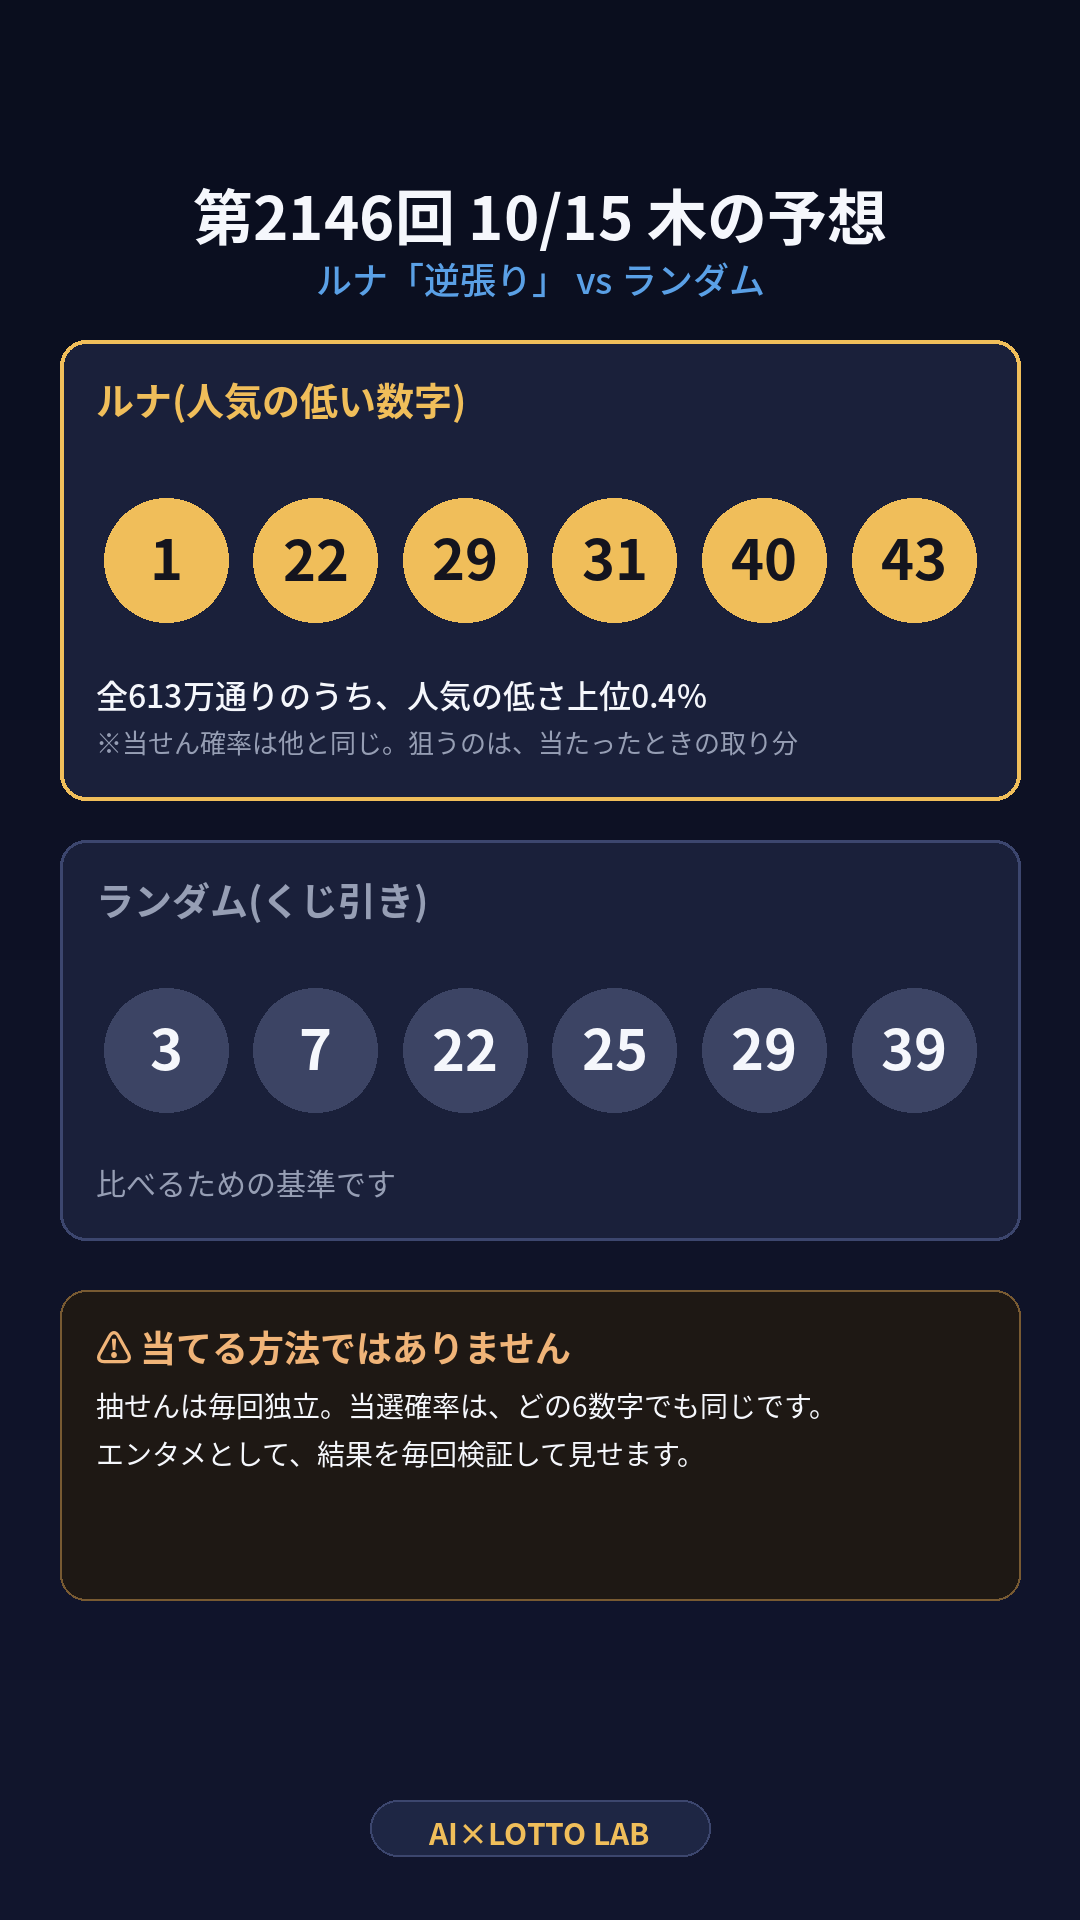
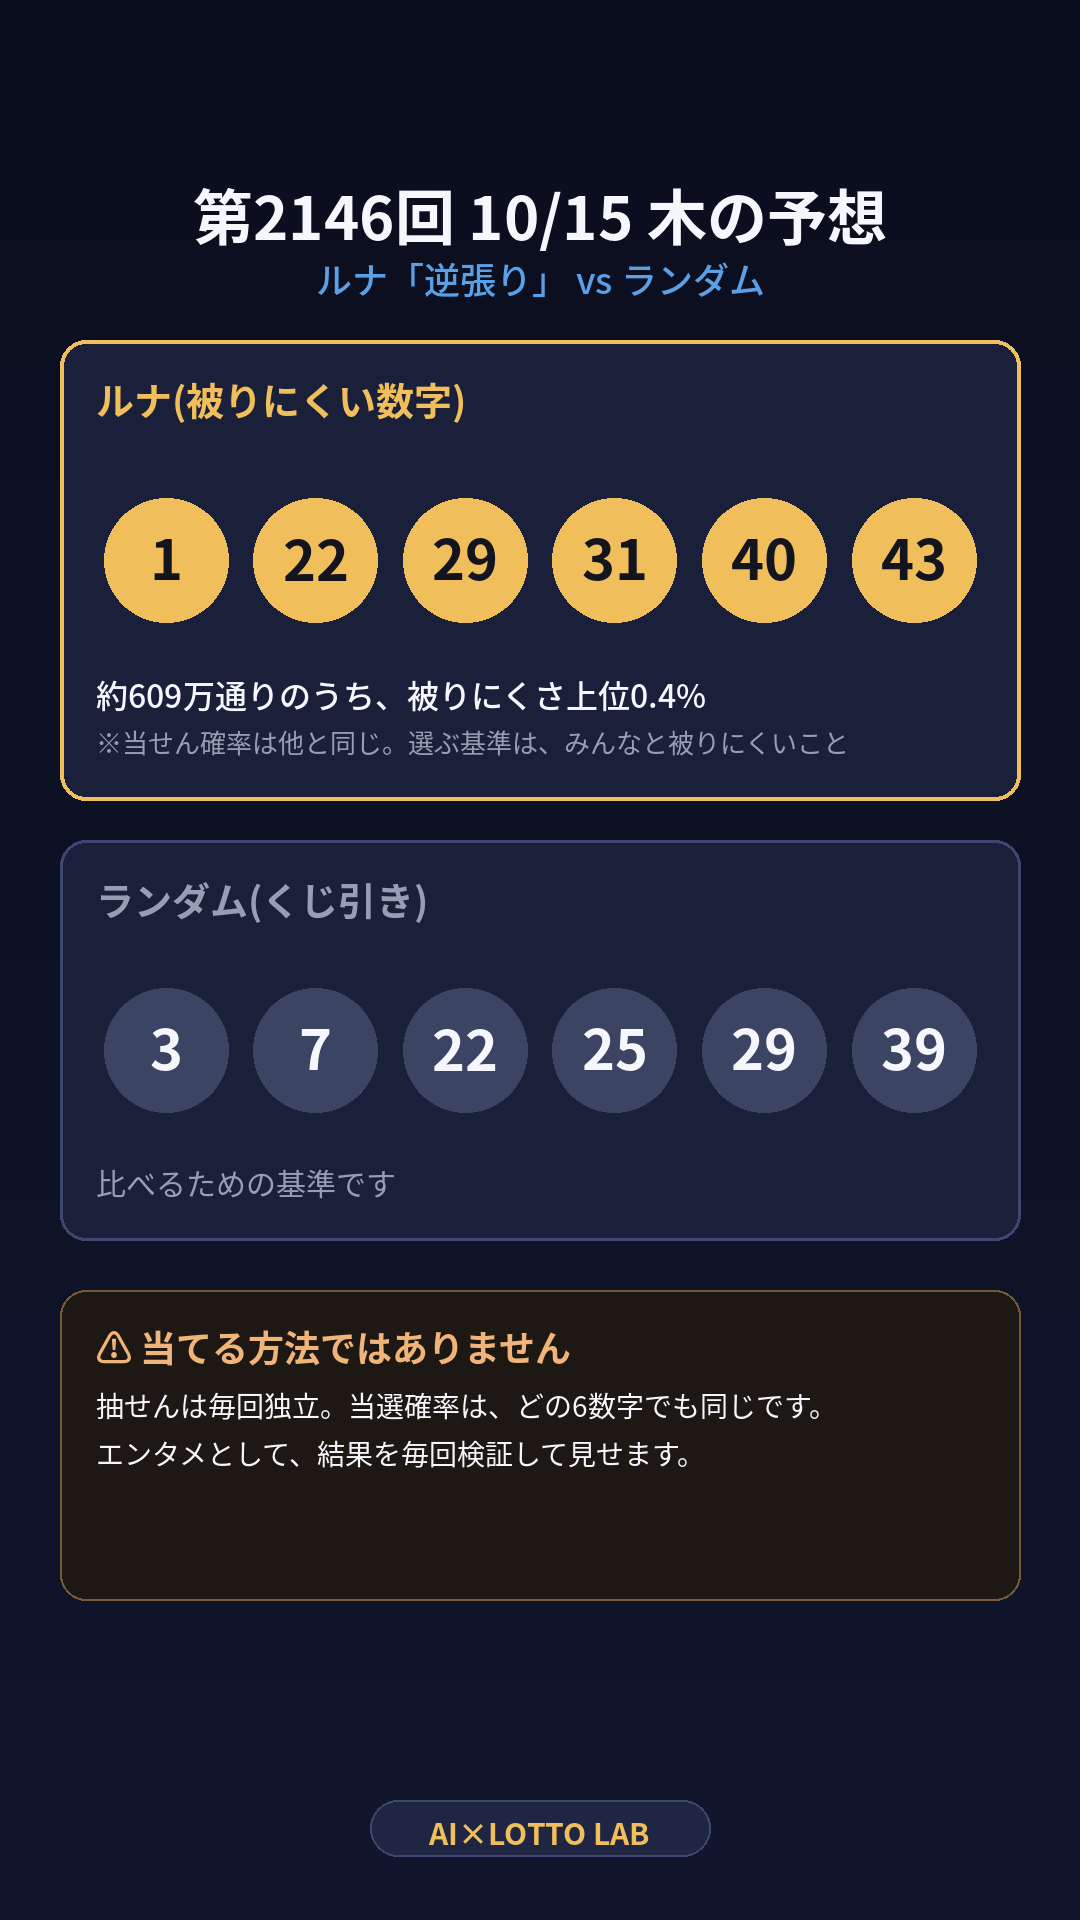
explain cards (flow, evidence), remove payout wording

diff --git a/scripts/make_explain_cards.py b/scripts/make_explain_cards.py
@@ -1,0 +1,55 @@
+"""理論を図で見せるカード2枚。python3 scripts/make_explain_cards.py <次回の回号>
+ cards/flow_<N>.png    : ルナ式ロジックの流れ(4ステップ)
+ cards/evidence_<N>.png: 人気度の推定が当たっている証拠(検証データの散布図)"""
+import sys, json, numpy as np
+import matplotlib; matplotlib.use("Agg")
+import matplotlib.pyplot as plt
+from matplotlib import font_manager as fm
+from PIL import Image, ImageDraw, ImageFont
+N = int(sys.argv[1]); p = json.load(open(f"data/picks/{N}.json")); sc = json.load(open("data/oos_scatter.json"))
+FD = "/usr/share/fonts/opentype/noto/NotoSansCJK-{}.ttc"; F = lambda w, s: ImageFont.truetype(FD.format(w), s)
+W, H = 1080, 1920; BG = (10, 14, 30); GOLD = (240, 190, 90); BLUE = (90, 160, 230); WHITE = (245, 247, 252); GR = (150, 158, 180); CB = (26, 32, 58); CBD = (60, 70, 110)
+def ct(d, y, t, fn, fill):
+    bb = d.textbbox((0, 0), t, font=fn); d.text((W/2-(bb[2]-bb[0])/2, y), t, font=fn, fill=fill)
+# ---- 流れカード
+im = Image.new("RGB", (W, H), BG); d = ImageDraw.Draw(im)
+ct(d, 120, "ルナ式ロジック", F("Bold", 70), WHITE); ct(d, 215, "4ステップで6数字を決める", F("Medium", 34), GR)
+steps = [("1", "過去%d回ぶんを読み込む" % p["draws"], "当せん数字 と 3〜5等の当せん者の数"),
+         ("2", "数字ごとの『被り度』を推定", "当せん者が多い回 = みんなが選びがちな数字が出た回"),
+         ("3", "全6,096,454通りを採点", "組み合わせごとに『被りやすさ』を計算"),
+         ("4", "被りにくい組から1組を抽せん", "上位固定にしないので、毎回ちがう6数字")]
+y = 300
+for i, (n, t, sub) in enumerate(steps):
+    d.rounded_rectangle([60, y, W-60, y+300], radius=28, fill=CB, outline=GOLD if i == 3 else CBD, width=4 if i == 3 else 3)
+    d.ellipse([90, y+30, 170, y+110], fill=GOLD); bb = d.textbbox((0, 0), n, font=F("Bold", 52)); d.text((130-(bb[2]-bb[0])/2, 70+y-(bb[3]-bb[1])/2-bb[1]+0), n, font=F("Bold", 52), fill=(20, 20, 30))
+    d.text((200, y+36), t, font=F("Bold", 44), fill=WHITE); d.text((200, y+110), sub, font=F("Regular", 30), fill=GR)
+    # 各ステップのミニ図
+    if i == 0:
+        for k in range(24): h = 20+((k*37)%60); d.rectangle([200+k*34, y+270-h, 200+k*34+22, y+270], fill=BLUE)
+    if i == 1:
+        for k in range(14):
+            v = p["b"][str(k*3+1)]; c = (230, 110, 60) if v > 0.05 else (90, 130, 220) if v < -0.04 else (140, 140, 150)
+            d.rounded_rectangle([200+k*54, y+200, 200+k*54+44, y+264], radius=8, fill=c)
+    if i == 2:
+        ct(d, y+190, "6,096,454", F("Bold", 70), GOLD)
+    if i == 3:
+        ct(d, y+190, "  →   " + "・".join(map(str, p["luna"])), F("Bold", 56), GOLD)
+    y += 330
+    if i < 3: d.polygon([(W/2-30, y-28), (W/2+30, y-28), (W/2, y)], fill=GR)
+ct(d, 1780, "※当せん確率は、どの数字でも同じです", F("Regular", 28), GR)
+im.save(f"cards/flow_{N}.png")
+# ---- 証拠カード(散布図)
+fp = fm.FontProperties(fname=FD.format("Bold").replace("{}", "Bold"), size=1)
+plt.rcParams["font.family"] = ["Noto Sans CJK JP"]
+fig = plt.figure(figsize=(10.8, 19.2), dpi=100, facecolor="#0a0e1e"); ax = fig.add_axes([0.14, 0.30, 0.78, 0.42], facecolor="#121832")
+x = np.array(sc["pred"]); yv = np.array(sc["actual"]); m, c = np.polyfit(x, yv, 1)
+ax.scatter(x, yv, s=26, color="#5aa0e6", alpha=.7, edgecolors="none"); xs = np.linspace(x.min(), x.max(), 10); ax.plot(xs, m*xs+c, color="#f0be5a", lw=5)
+ax.tick_params(colors="#9aa2b8", labelsize=18); [s.set_color("#3c4670") for s in ax.spines.values()]
+ax.set_xlabel("ルナの予測(その回の“被りやすさ”)", color="#f5f7fc", fontsize=26, labelpad=18); ax.set_ylabel("実際の当せん者の多さ", color="#f5f7fc", fontsize=26, labelpad=18)
+fig.text(0.5, 0.90, "この人気度推定、合ってる?", color="#f5f7fc", fontsize=54, ha="center", weight="bold")
+fig.text(0.5, 0.855, "学習に使っていない %d回で、予測と実際を比べた" % sc["n"], color="#9aa2b8", fontsize=28, ha="center")
+fig.text(0.5, 0.78, "相関 %.2f" % sc["corr"], color="#f0be5a", fontsize=80, ha="center", weight="bold")
+fig.text(0.5, 0.74, "(1.0が満点 / 0なら当てずっぽう)", color="#9aa2b8", fontsize=26, ha="center")
+fig.text(0.5, 0.22, "右上がり = 予測が当たっている", color="#f5f7fc", fontsize=34, ha="center", weight="bold")
+fig.text(0.5, 0.17, "ただし当せん確率そのものは変わりません", color="#9aa2b8", fontsize=26, ha="center")
+fig.savefig(f"cards/evidence_{N}.png", facecolor=fig.get_facecolor()); print("saved")

diff --git a/scripts/weekly.py b/scripts/weekly.py
@@ -98,9 +98,9 @@ def balls(nums, y, fill, tc):
         d.ellipse([cx-r, y-r, cx+r, y+r], fill=fill)
         t = "%d" % v; b = d.textbbox((0, 0), t, font=F("Bold", 56)); d.text((cx-(b[2]-b[0])/2, y-(b[3]-b[1])/2-b[1]), t, font=F("Bold", 56), fill=tc)
 d.rounded_rectangle([m, 340, W-m, 800], radius=26, fill=CB, outline=GOLD, width=4)
-d.text((m+36, 370), "ルナ(人気の低い数字)", font=F("Bold", 38), fill=GOLD); balls(nx["luna"], 560, GOLD, (20, 20, 30))
-d.text((m+36, 670), "全613万通りのうち、人気の低さ上位%.1f%%" % nx["percentile_luna"], font=F("Medium", 32), fill=WHITE)
-d.text((m+36, 722), "※当せん確率は他と同じ。狙うのは、当たったときの取り分", font=F("Regular", 26), fill=GR)
+d.text((m+36, 370), "ルナ(被りにくい数字)", font=F("Bold", 38), fill=GOLD); balls(nx["luna"], 560, GOLD, (20, 20, 30))
+d.text((m+36, 670), "約609万通りのうち、被りにくさ上位%.1f%%" % nx["percentile_luna"], font=F("Medium", 32), fill=WHITE)
+d.text((m+36, 722), "※当せん確率は他と同じ。選ぶ基準は、みんなと被りにくいこと", font=F("Regular", 26), fill=GR)
 d.rounded_rectangle([m, 840, W-m, 1240], radius=26, fill=CB, outline=CBD, width=3)
 d.text((m+36, 870), "ランダム(くじ引き)", font=F("Bold", 38), fill=GR); balls(nx["random"], 1050, (60, 68, 100), WHITE)
 d.text((m+36, 1160), "比べるための基準です", font=F("Regular", 30), fill=GR)
@@ -116,5 +116,6 @@ json.dump({"answer_draw": D, "luna_hit": hit(pk["luna"]), "random_hit": hit(pk["
            "percentile": nx["percentile_luna"], "nums": R["nums"], "bonus": R["bonus"]},
           open("data/week_summary.json", "w"), ensure_ascii=False, indent=1)
 subprocess.run([sys.executable, "scripts/make_logic_card.py", str(NEXT)], check=True)
+subprocess.run([sys.executable, "scripts/make_explain_cards.py", str(NEXT)], check=True)
 subprocess.run([sys.executable, "scripts/build_history.py"], check=True)
 print(open("data/week_summary.json").read())

diff --git a/scripts/luna_method.py b/scripts/luna_method.py
@@ -24,6 +24,7 @@ def fit(idx,lam=5.0):
 # 精度確認(前半で学習→後半で検証)
 cut=int(N*0.8);b_tr=fit(np.arange(100,cut))
 oos=float(stats.pearsonr((X[cut:]-X[100:cut].mean(0))@b_tr,z[cut:])[0])
+_pred=((X[cut:]-X[100:cut].mean(0))@b_tr).tolist();json.dump({"pred":_pred,"actual":z[cut:].tolist(),"corr":oos,"n":len(_pred)},open("oos_scatter.json","w"))
 b=fit(np.arange(100,N))                    # 本番は全データで学習
 # 全 C(43,6) を列挙して、人気度スコアに応じた確率で1組を抽出
 combos=np.array(list(itertools.combinations(range(43),6)),dtype=np.int8)
